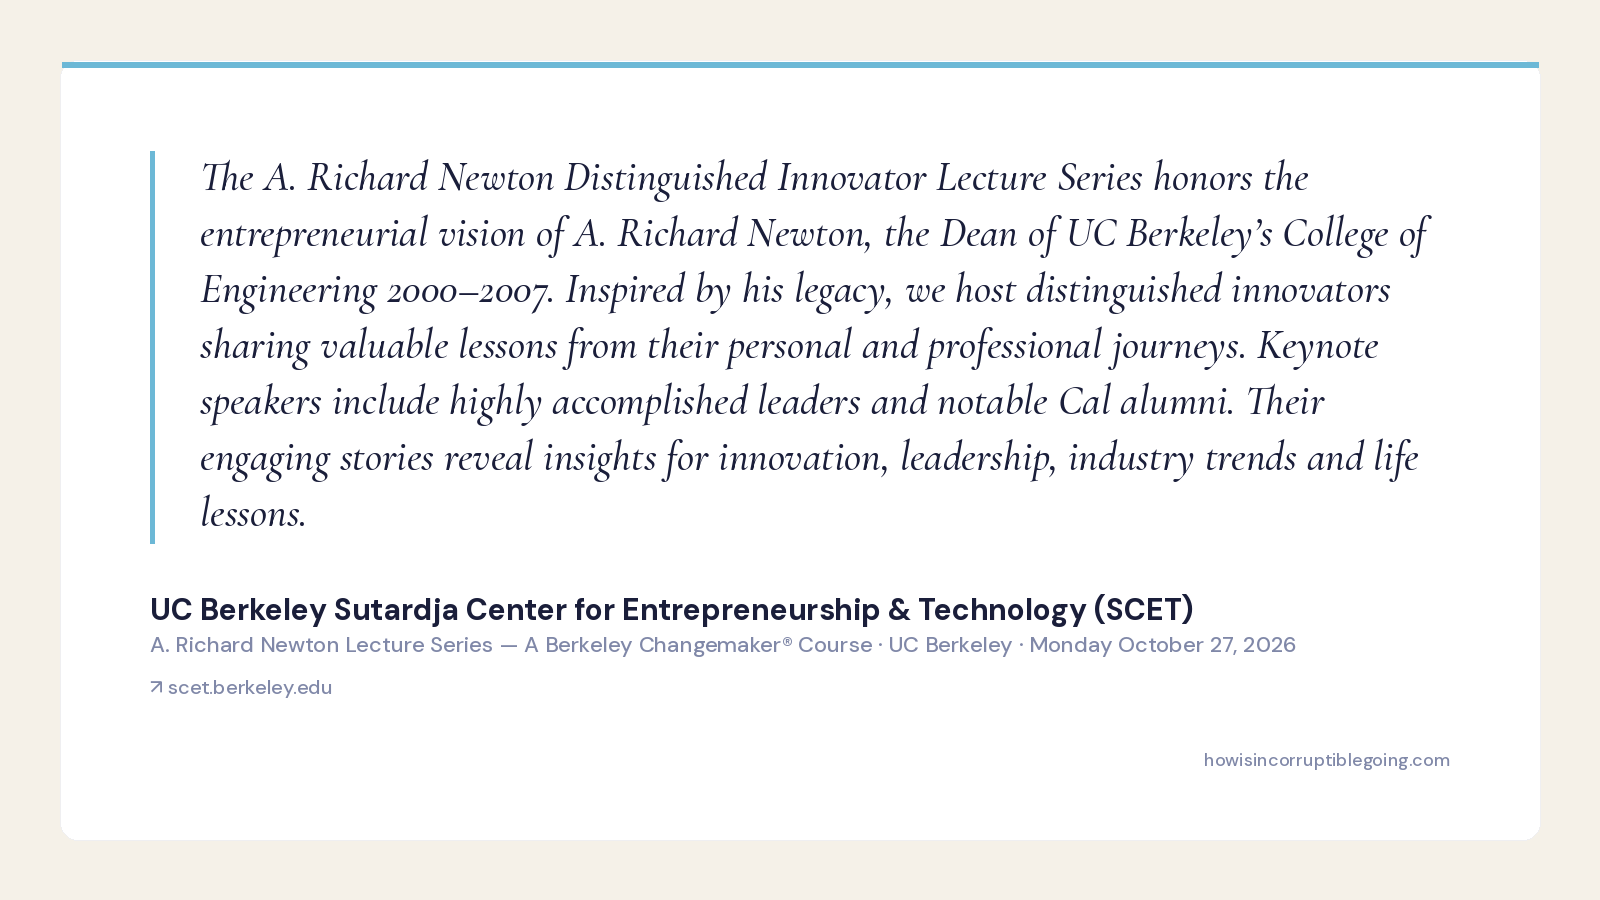
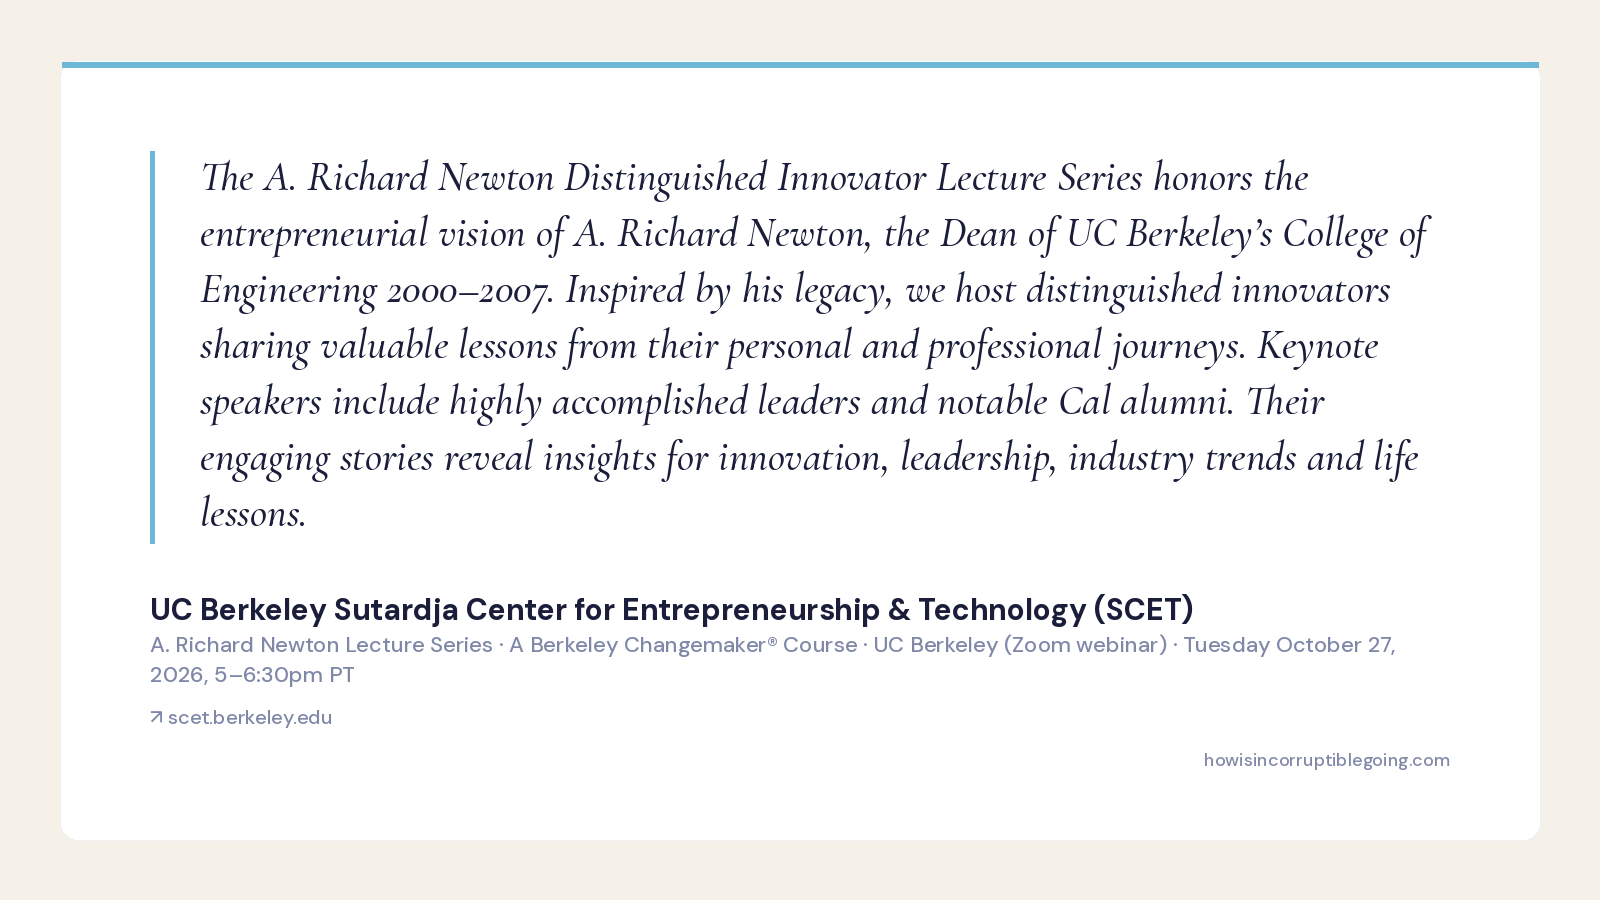
docs: re-sync CRONS.md with live prompts; Berkeley Newton is virtual, Oct 27 is a Tuesday
CRONS.md had drifted behind four live cron prompts. Carried forward: the
comment-archive cost cap and the "check whether the cap cost anything"
step, the recall audit's maxItems=100 plus the coverage check, the
featured-rail tiebreakers, and the event-pipeline item downgraded from a
nightly flag to a single raise when the Nov 4 slot empties.

The Berkeley Newton lecture was listed as an in-person Monday event. It
is an online livestream on Tuesday October 27 at 5pm PT — confirmed via
the Luma registration page, which also gives the session title. The end
time is not corroborated (one listing says 6:00pm, another 6:30), so the
attribution carries the start time only.

Changed region(s): [[0.3125, 0.6844, 0.8438, 0.7467], [0.0938, 0.7467, 0.2188, 0.8089]]

diff --git a/docs/CRONS.md b/docs/CRONS.md
@@ -105,7 +105,7 @@ For each new review not already in content/entries/:
 - type=review, scanner_source="social-scan" (the schema permits only [web-search, social-scan, manual, rss] — "goodreads-scan" fails lint).
 - verified:false, because Goodreads is JS-rendered and verify-quotes cannot see it.
 - Title format: do NOT prefix with "Goodreads reviewer X —". The title is just the strongest pull quote in single quotes, capped at 200 characters; explain who the reviewer is in the summary and attribution fields.
-- Sidebar flags per memory/feedback_sidebar_flags.md.
+- Sidebar flags per memory/feedback_sidebar_flags.md. Note that lint forbids sidebar_quote and highlight on type=reaction entries, and HIGHLIGHT_ELIGIBLE_ENDORSERS gates the highlight flag — a Goodreads reviewer will almost never be on it.
 
 Amazon review-count milestones (memory/feedback_amazon_review_milestones.md): ship one flat entry at 500 and 1000. The 2026-10-05 snapshot had 262 Amazon ratings and 406 Goodreads ratings, so 500 is still some way off; no action unless a snapshot crosses it. That snapshot is the most recent — the Amazon rank cron is paused at Eric's direction, so do not expect fresher numbers unless he asks for it back.
 
@@ -119,10 +119,14 @@ LinkedIn comment archive scan. Pull Eric's LinkedIn author feed plus the Incorru
 
 Use waitSecs:0 for both Apify calls, then curl the datasets (docs/SCAN-PROTOCOL.md section 1).
 
-1. harvestapi/linkedin-post-search — Eric's author feed:
-   {"authorUrls": ["https://www.linkedin.com/in/eries/"], "postedLimit": "week", "maxPosts": 30, "sortBy": "date", "scrapeComments": true, "commentsPostedLimit": "week", "maxComments": 30, "postNestedComments": true} with callOptions {"maxItems": 40}
-2. harvestapi/linkedin-post-search — keyword:
-   {"searchQueries": ["Incorruptible Ries"], "postedLimit": "week", "maxPosts": 40, "sortBy": "date", "scrapeComments": true, "commentsPostedLimit": "week", "maxComments": 30, "postNestedComments": true} with callOptions {"maxItems": 40}
+COST CAP — this job was 50% of all Apify volume Oct 10-14 and ships nothing, which is why it moved to 3x/week on 2026-10-14. maxPosts is NOT honoured by the actor (30 was passed, 130 returned). Pass callOptions {"maxItems": 40} on BOTH calls. Both queries use postedLimit "week", so running 3x/week still sees every comment — just up to two days later.
+
+CHECK WHETHER THE CAP COST ANYTHING, and say so either way. Compare the oldest post in this pull against the oldest in the previous run's archive file. On 2026-10-16 the author feed hit the cap and it cost nothing — the previous run already reached past the oldest item returned. On 2026-10-19 the keyword run hit the cap and DID leave a hole: it truncated to Oct 18 onward while the Oct 16 run reached only to Oct 14, so Oct 17 keyword-post comments were never covered. Report the hole rather than silently raising the cap; this lane is archive-only, so a one-day gap is usually not worth extra spend.
+
+1. harvestapi/linkedin-post-search — Eric's author feed, callOptions {"maxItems": 40}:
+   {"authorUrls": ["https://www.linkedin.com/in/eries/"], "postedLimit": "week", "maxPosts": 30, "sortBy": "date", "scrapeComments": true, "commentsPostedLimit": "week", "maxComments": 30, "postNestedComments": true}
+2. harvestapi/linkedin-post-search — keyword, callOptions {"maxItems": 40}:
+   {"searchQueries": ["Incorruptible Ries"], "postedLimit": "week", "maxPosts": 40, "sortBy": "date", "scrapeComments": true, "commentsPostedLimit": "week", "maxComments": 30, "postNestedComments": true}
 
 Save each raw dataset to data/archive/linkedin-raw/<YYYY-MM-DD>-<name>.json, then:
 
@@ -130,11 +134,15 @@ Pass 1 — emit queue:
   python3 scripts/archive-linkedin-superlatives.py /tmp/eries-feed.json --scan-source=linkedin-author-eries
   python3 scripts/archive-linkedin-superlatives.py /tmp/kw-feed.json --scan-source=linkedin-keyword
 
-Pass 2 — classify in-turn, no external API. Read .llm-queue.json and judge each candidate.
+Pass 2 — classify in-turn, no external API. Read .llm-queue.json and judge each candidate. Filter to kind=comment and drop identifiers already present in data/archive/linkedin-comments/*.json before reading — after a big event the queue runs to 200+ and most are repeats of the same week's items.
 
 KEEP short superlative fragments, including one-word ones — per Eric, 2026-10-03: "keep comments in the archive like 'astounding' (just that one word is enough, we dont need the rest for things like movie posters), same with 'worthy path toward building bigger' and 'this is amazing' kind of stuff." Set pull_quote to JUST the superlative fragment, not the surrounding sentence. These qualify even when the rest of the comment is a question, or when the praise is addressed to the poster rather than the book. See memory/feedback_comment_archive_fragments.md.
 
-SKIP: congratulations ("Congrats!!!!"), purchase notes ("$1.99 on my kindle, purchased!"), lukewarm interest ("looks intriguing"), praise aimed at something other than the book or the talk, commenters who say they have not read it yet, and AI-slop comments.
+A person whose POST was skipped can still have a keepable COMMENT — different lanes. Ed Magee's Oct 18 post was the textbook one-clause skip; his Oct 19 comment, "Eric's talk is still occupying mindspace, rent free", was a clean keep.
+
+SKIP: congratulations ("Congrats!!!!"), purchase notes ("$1.99 on my kindle, purchased!"), lukewarm interest ("looks intriguing"), praise aimed at something other than the book or the talk, commenters who say they have not read it yet, and AI-slop comments. The slop signature is a long fluent sentence restating the post's own thesis back at it — "This is exactly the board governance and mission protection conversation most directors needed to see"; several arrive per event, sometimes with HTML-escape artifacts like "Melissa#39;s". A reading-list post draws a cluster of "got to check them out!" replies — all haven't-read-it skips.
+
+The archive holds COMMENTS only — every record to date is item_kind "comment". The queue also surfaces posts; skip those. But a comment can still yield a CONTENT-side find worth acting on: on 2026-10-19 Ash Wallington posted her article URL in comments, which completed an entry shipped the day before when the link was unreachable.
 
 CRITICAL: when a candidate's relevance depends on the PARENT post, print the parent post IN FULL before deciding. A lowercase or adjectival "incorruptible" near the top of a post is a reason to keep reading, not to dismiss — people routinely use the word casually and credit the book further down. This is how the Paige Kaye entry was nearly lost (memory/feedback_read_whole_parent_post.md).
 
@@ -156,15 +164,17 @@ Run all three over the same 7-day window, each with waitSecs:0 then scan-triage.
 2. ALTERNATE:  searchQueries=["Eric Ries Incorruptible"], same params
 3. BARE:       searchQueries=["Incorruptible"], same params
 
-maxPosts MUST be 100, not 40. On 2026-09-27 both queries hit the 40 cap, so the comparison was between two truncated lists and reported false agreement — that is how a Raj Sisodia endorsement went unseen for a week. Check and report whether any query hit the cap; if one did, its result is not a valid comparison input.
+maxPosts MUST be 100, not 40, and pass callOptions {"maxItems": 100} on each — maxPosts alone is a soft target the actor does not honour. On 2026-09-27 both queries hit the 40 cap, so the comparison was between two truncated lists and reported false agreement — that is how a Raj Sisodia endorsement went unseen for a week. Check and report whether any query hit the cap; if one did, its result is not a valid comparison input. This is the one job where 100 is justified: the comparison is worthless on truncated lists, and this audit is the designed backstop for everything the daily scans miss.
 
-The bare query is noisy (Bible verses, political theory, films, and lowercase adjectival use). Filter it for book relevance before comparing: the post body should mention Eric Ries, Lean Startup, financial gravity, or mission-lock.
+The bare query is noisy (Bible verses, political theory, films, and lowercase adjectival use). Filter it for book relevance before comparing: the post body should mention Eric Ries, Lean Startup, financial gravity, or mission-lock. But note the structural reason the bare query is not redundant: a post that hashtags Eric's name (#EricRies) never contains "Ries" as a standalone token, so the two-word production query cannot match it at all. That is a mechanism, not noise.
 
 Compare recall, then cross-check against content/entries/ for the past 7 days. Report: each query's count, whether any hit the cap, IDs unique to each alternate (up to 10), any high-signal post that two queries returned but we never shipped, and whether the production query is missing more than 20 percent of relevant posts.
 
 Judge by quality as well as rate. On 2026-10-04 the raw miss rate was only 7 percent, but the single missed post was a peer-tier endorsement from the co-founder of the Conscious Capitalism movement — worth escalating on its own.
 
 Audit BOTH halves — recall and judgment. For every relevant post the production query DID return but we never shipped, check it against the inclusion memories before calling it correctly skipped. On 2026-10-11 recall was healthy (8 percent miss, no cap hits) yet the week's real finding was a judgment miss: Fora Fereydouni (Founder & CEO, Cognitai, 47 likes) sat in an Oct 6 daily list of only 13 items and was passed over, then shipped a week late by the audit. A short daily list is not a reason to skim it. Ship anything the audit confirms was wrongly skipped.
+
+Also audit COVERAGE, not just query shape: run `python3 scripts/scan-coverage.py --days 14` and report any day a daily source produced no archive file. These crons only fire while the REPL is idle, so a closed laptop skips a cycle silently. If a gap is real and still unbackfilled, do one catch-up pull with a derived postedLimit (scan_state.choose_posted_limit) and client-side dedup against data/archive/, then ack_gap it.
 
 If a calibration change is warranted, update memory/feedback_linkedin_query_calibration.md, docs/SCAN-PROTOCOL.md and the affected prompt in docs/CRONS.md, then commit. Otherwise make no commit.
 ```
@@ -203,9 +213,22 @@ Criteria per memory/feedback_sidebar_flags.md and memory/feedback_highlights_row
 
 WHAT'S NEW (featured, exactly 8) — third-party momentum only: events, endorsements, real news. Prefer upcoming book-tour events, heavyweight endorsements, podcast appearances, viral coverage. Rotate an event out the day after it happens. Eric's own posts are auto-excluded by the index filter (isSelfAmplification keys off both the speaker and the venue), so do not bother flagging them — an entry sourced to Eric's own LinkedIn or TikTok will never render here no matter what flag it carries.
 
-Be conservative. Churn the featured set only for a clearly better candidate; a single swap is a normal night's work and no change at all is a fine outcome.
+Only standalone types have ever been featured — endorsement, event, podcast, media, milestone. A type=reaction is a child of its parent and is not a candidate, however high its engagement: Christopher O.H. Williams at 57 reactions on 2026-10-19 was the highest-engagement post of the NACD wave and still was not eligible.
 
-HIGHLIGHTS (highlight) — GROWS, NEVER TRIMMED. Lint enforces a floor. Only ADD; never remove a highlight flag from any entry, including ones dropping out of What's New. The name must already be on HIGHLIGHT_ELIGIBLE_ENDORSERS in scripts/lint-entries.ts. Adding a new name is Eric's editorial call — ship such an entry with type_metadata.sidebar_quote instead and ask via AskUserQuestion, never in prose. The operative distinction is author tier versus CEO tier: a named author with a body of work (Steve Blank, Nir Eyal, Rory Sutherland, Raj Sisodia) is worth asking about; the CEO of a notable company is not, however on-thesis the endorsement (memory/feedback_highlights_row.md).
+Be conservative. Churn the featured set only for a clearly better candidate; a single swap is a normal night's work and no change at all is a fine outcome. When an event is rotating out tomorrow anyway, do not also churn a second slot tonight — one change at a time.
+
+Tiebreakers that have actually decided calls:
+- Composition. On 2026-10-16 the rail held three events, two media, two endorsements and zero podcasts, which is what sent a 15-day-old milestone out for a 38K-subscriber interview.
+- Reach, as a reason NOT to swap: a 1,570-subscriber podcast does not displace a 38,400-subscriber one just for being newer.
+- Quote strength over freshness. On 2026-10-18 Kim Scott — allowlisted heavyweight, same day — did not displace Alistair Croll, because "such an important book!" appended to a reshare is thinner than Croll giving away a dozen copies and calling it "an incredibly important reset for startups and capitalism itself".
+
+EVENT PIPELINE — answered, do not flag nightly. A targeted search on 2026-10-20 found no unscheduled dates; the tour is concluding by design and SOSV on Nov 4 is the last event. Raise it once when that slot empties, then stop. The rail will keep working as a momentum surface — the scan produced eleven standalone entries in the six days to Oct 19 — it just stops answering "where to see Eric next". See memory/project_event_pipeline_winding_down.md.
+
+HIGHLIGHTS (highlight) — GROWS, NEVER TRIMMED. Lint enforces a floor. Only ADD; never remove a highlight flag from any entry, including ones dropping out of What's New. The name must already be on HIGHLIGHT_ELIGIBLE_ENDORSERS in scripts/lint-entries.ts. Adding a new name is Eric's editorial call — ship such an entry with type_metadata.sidebar_quote instead and ask via AskUserQuestion, never in prose. The operative distinction is author tier versus CEO tier: a named author with a body of work (Steve Blank, Nir Eyal, Rory Sutherland, Raj Sisodia) is worth asking about; the CEO of a notable company is not, however on-thesis the endorsement (memory/feedback_highlights_row.md). Academic-publication credentials (a Springer monograph, a lectureship) are not the same as that body-of-work recognition, and neither is one leadership title alongside a board career — do not ask on those.
+
+"Only ADD" does not mean add every eligible instance. Kim Scott is allowlisted and already carries three faces in the row; her 2026-10-18 one-liner was deliberately left unflagged because a fourth identical face with a weaker quote makes the row repetitive, not stronger. Declining to add is not trimming — the floor stays put.
+
+Note: lint forbids sidebar_quote and highlight on type=reaction entries — those flags belong on the parent.
 
 Format a highlight as "Name: 'verbatim short quote'".
 
@@ -217,7 +240,7 @@ Then verify, in this order:
   grep the rendered dist/index.html to confirm the change actually reached the DOM
 Do not trust the JSON alone — twice, edits landed in a component that produces no output (memory/feedback_verify_in_dom.md). Confirm both that the new entry appears in What's New and that the Highlights carousel face count did not drop.
 
-Then commit and push.
+Then commit and push. If nothing changed, make no commit and say so. Set PATH="/opt/homebrew/opt/node@23/bin:$PATH" before npm/npx commands.
 ```
 
 ---
